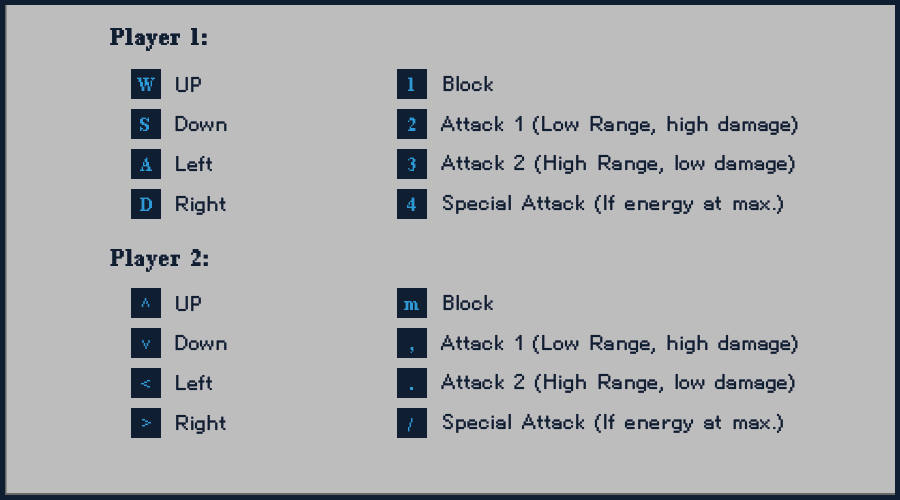
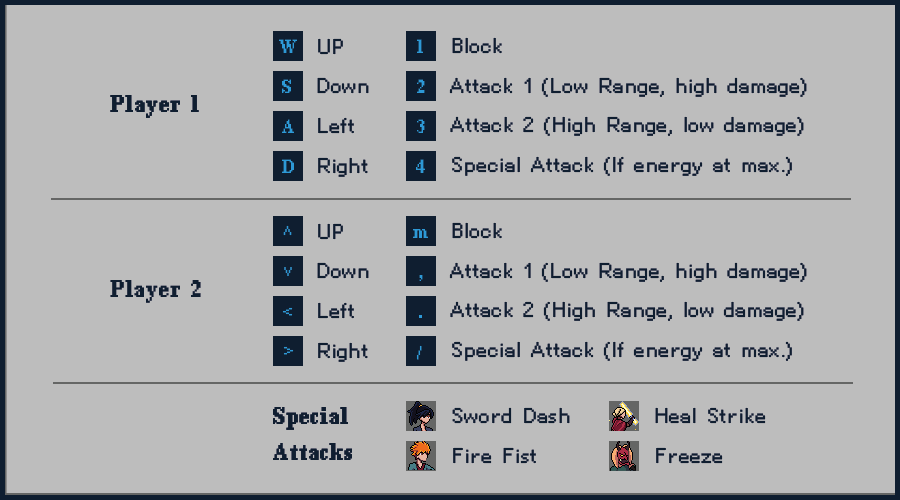
fix: spec. attacks

diff --git a/player.py b/player.py
@@ -34,8 +34,12 @@ class Player():
         self.dash_duration = 200  # duration in miliseconds
         self.dash_start_time = 0 
         self.frozen = False
-        self.frozen_duration = 3000 # duration in miliseconds
+        self.frozen_duration = 3000
         self.freeze_start_time = 0 
+        self.burned = False 
+        self.burn_start_time = 0
+        self.burn_interval = 2000
+        self.burn_ticks = 0 
         
     #======================#
     #==#  Load Sprites  #==#
@@ -70,10 +74,7 @@ class Player():
         self.running = False
         self.attack_type = 0
         
-        # get pressed key
         key = pygame.key.get_pressed()
-        
-        # Controlls
         if self.attacking == False and self.alive == True and round_over == False and self.frozen == False:
             
             # player 1
@@ -121,26 +122,22 @@ class Player():
                     # attack
                     self.handle_attacks(key, surface, target)
                     self.handle_spec_attacks(key, surface, target)
-        
         # Spec Move: Dash
         if self.dashing:
             if pygame.time.get_ticks() - self.dash_start_time < self.dash_duration:
                 dx = self.dash_speed if not self.flip else -self.dash_speed
             else:
                 self.dashing = False
-                self.attack_cooldown = 30
-                
+                self.attack_cooldown = 30    
         # Spec Status: Freeze
         if self.frozen:
             if pygame.time.get_ticks() - self.freeze_start_time < self.frozen_duration:
                 self.frozen = True
             else:
-                self.frozen = False
-                
+                self.frozen = False             
         # apply gravity
         self.vel_y += GRAVITY
         dy += self.vel_y
-            
         # limit screen area
         if self.rect.left + dx < 0: # X axis
             dx = -self.rect.left
@@ -149,15 +146,12 @@ class Player():
         if self.rect.bottom + dy > screen_height - 110: # Y axis
             self.vel_y = 0
             self.jump = False # restart jump delay
-            dy = screen_height - 110 - self.rect.bottom
-             
+            dy = screen_height - 110 - self.rect.bottom  
         # ensure player face each other
         self.flip = target.rect.centerx < self.rect.centerx
-        
         # apply attack cooldown
         if self.attack_cooldown >0:
             self.attack_cooldown -= 1
-        
         # update position
         self.rect.x += dx
         self.rect.y += dy
@@ -183,10 +177,10 @@ class Player():
                 
     def handle_spec_attacks(self, key, surface, target):
         if ( key[pygame.K_4] and self.player == 1 and self.energy == 100) or (key[pygame.K_SLASH] and self.player == 2 and self.energy == 100):
-            if self.fighter_name == "Bam" or self.fighter_name == "Starlight":
+            if self.fighter_name == "Bam":
                 self.attack_type = 3
                 self.dash_attack(surface, target)
-            if self.fighter_name == "Onichan"or self.fighter_name == "Raruto":
+            if self.fighter_name == "Onichan" or self.fighter_name == "Raruto" or self.fighter_name == "Starlight":
                 self.attack_type = 3
                 self.freeze_attack(surface, target)
         
@@ -245,8 +239,7 @@ class Player():
                         self.hit = False
                         self.attacking = False
                         self.attack_cooldown = 30 # hurt cooldown
-            
-            
+               
     #=================#
     #==#  Attacks  #==#
     #=================#
@@ -269,14 +262,10 @@ class Player():
             if attacking_rect.colliderect(target.rect):
                 if target.blocking == False:
                     if self.fighter_name == "Bam":
-                        target.health -= 30  # Dash Damage
-                        target.hit = True
-                    elif self.fighter_name == "Starlight":
-                        target.health -= 20  # Dash Damage
-                        self.health += 15 # Damage Heal
+                        target.health -= 35  # Dash Damage
                         target.hit = True
             # Draw hit area on green for debug
-            pygame.draw.rect(surface, (0, 255, 0), attacking_rect)
+            #pygame.draw.rect(surface, (0, 255, 0), attacking_rect)
     
     def attack(self, surface, target):
         if self.attack_cooldown == 0:
@@ -288,7 +277,7 @@ class Player():
                 damage = 10 
             elif self.attack_type == 2:
                 # Attack Type 2: More Range Low Damage
-                attack_width = self.rect.width * 2
+                attack_width = self.rect.width * 1.9
                 damage = 6
 
             # Creates attack area
@@ -309,14 +298,17 @@ class Player():
                     self.energy += 20
 
             # Draw hit area on green for debug
-            pygame.draw.rect(surface, (0, 255, 0), attacking_rect)
+            #pygame.draw.rect(surface, (0, 255, 0), attacking_rect)
             
             
     def freeze_attack(self, surface, target):
+                
         if self.attack_cooldown == 0:
             self.attacking = True
             attack_width = self.rect.width * 1.5
-            damage = 6
+            damage = 15
+            healDamage = 20
+            healSelf = 15
             self.energy -= 100
 
             # Creates attack area
@@ -330,16 +322,24 @@ class Player():
             # Check if collision happened
             if attacking_rect.colliderect(target.rect):
                 if target.blocking == False:
-                    target.frozen = True
-                    target.freeze_start_time = pygame.time.get_ticks()
-                    target.health -= damage
-                    target.hit = True
-
-
+                    if self.fighter_name == "Onichan": # freeze attack
+                        target.frozen = True
+                        target.freeze_start_time = pygame.time.get_ticks()
+                        target.health -= damage
+                        target.hit = True
+                    elif self.fighter_name == "Starlight": # Heal strike
+                        target.health -= healDamage
+                        self.health += healSelf
+                        target.hit = True
+                    elif self.fighter_name == "Raruto": # Burn attack
+                        target.burned = True
+                        target.burn_start_time = pygame.time.get_ticks()
+                        target.burn_ticks = 0
+                        target.hit = True
+                        
             # Draw hit area on green for debug
-            pygame.draw.rect(surface, (0, 255, 0), attacking_rect)
-            
-            
+            #pygame.draw.rect(surface, (0, 255, 0), attacking_rect)        
+                    
     #================#
     #==#  Update  #==#
     #================#

diff --git a/main.py b/main.py
@@ -67,8 +67,8 @@ fighters = [
     {"name": "Raruto", "size": 128, "scale": 1.6, "offset": [34, 15], "freeze_offset": [-55,-23], "animation_steps":[6, 8, 8, 10, 3, 4, 4, 2, 3, 4]},
     {"name": "Starlight", "size": 128, "scale": 2.1, "offset": [45, 41], "freeze_offset": [-95,-87], "animation_steps":[7, 7, 8, 8, 4, 10, 10, 7, 3, 6]},
     {"name": "Onichan", "size": 128, "scale": 2, "offset": [44, 38], "freeze_offset": [-88,-75], "animation_steps":[5, 6, 7, 8, 4, 4, 4, 4, 3, 6]},
-    {"name": "Bam", "size": 128, "scale": 1.8, "offset": [40, 27], "freeze_offset": [-73,-50], "animation_steps":[6, 8, 8, 12, 6, 4, 3, 2, 2, 4]}]
-
+    {"name": "Bam", "size": 128, "scale": 1.8, "offset": [40, 27], "freeze_offset": [-73,-50], "animation_steps":[6, 8, 8, 12, 6, 4, 3, 2, 2, 4]}
+]
 # Show Fighter List
 def draw_character_selection(selected1,selected2):
 
@@ -511,22 +511,56 @@ while run:
             fight_displayed = False
             fighter_1 = Player(1, 200, 310, False, fighter_1_data, player_1_sheet, fighter_1_data['animation_steps'])
             fighter_2 = Player(2, 700, 310, True, fighter_2_data, player_2_sheet, fighter_2_data['animation_steps'])
+    
+    # Manage burn damage
+    if fighter_1.burned or fighter_2.burned:
+        if fighter_1.burned: # P1
+            current_time = pygame.time.get_ticks()
+            # time hits
+            if current_time - fighter_1.burn_start_time >= (fighter_1.burn_interval * (fighter_1.burn_ticks + 1)):
+                fighter_1.health -= 10  # Aplicar daño por quemadura
+                fighter_1.burn_ticks += 1
+                # Finish burn after 3 hits
+                if fighter_1.burn_ticks >= 3:
+                    fighter_1.burned = False             
+        if fighter_2.burned: # P2
+            current_time = pygame.time.get_ticks()
+            # time hits
+            if current_time - fighter_2.burn_start_time >= (fighter_2.burn_interval * (fighter_2.burn_ticks + 1)):
+                fighter_2.health -= 10  # Aplicar daño por quemadura
+                fighter_2.burn_ticks += 1
+                # Finish burn after 3 hits
+                if fighter_2.burn_ticks >= 3:
+                    fighter_2.burned = False 
      
-    # Manage frozen status        
-    if fighter_1.frozen or fighter_2.frozen:
+    # Manage frozen/burned status color effect
+    if fighter_1.frozen or fighter_2.frozen or fighter_1.burned or fighter_2.burned:
         if fighter_1.frozen:
             frozenChar = fighter_1
             frozenOffset = fighter_1_data['freeze_offset']
+            colorEffect = 0
         elif fighter_2.frozen:
             frozenChar = fighter_2
             frozenOffset = fighter_2_data['freeze_offset']
-        # Create Blue mask 
+            colorEffect = 0
+        elif fighter_1.burned:
+            frozenChar = fighter_1
+            frozenOffset = fighter_1_data['freeze_offset']
+            colorEffect = 1
+        elif fighter_2.burned:
+            frozenChar = fighter_2
+            frozenOffset = fighter_2_data['freeze_offset']
+            colorEffect = 1
+        # Create Blue/Red mask 
         enemy_mask = pygame.mask.from_surface(frozenChar.image)
         blue_effect = pygame.Surface(frozenChar.image.get_size(), pygame.SRCALPHA)
         for x in range(blue_effect.get_width()):
             for y in range(blue_effect.get_height()):
                 if enemy_mask.get_at((x, y)):  # mask if pixel
-                    blue_effect.set_at((x, y), (15,158,234, 100))  # add transparent blue
+                    if colorEffect == 0:
+                        blue_effect.set_at((x, y), (15,158,234, 50))  # add transparent blue
+                    if colorEffect == 1:
+                        blue_effect.set_at((x, y), (255,0,0, 50))  # add transparent red
         # flip if char flips
         if frozenChar.flip:
             flipped_blue_effect = pygame.transform.flip(blue_effect, True, False)

diff --git a/README.md b/README.md
@@ -9,10 +9,7 @@
 </br>
 
 ## 📝 Description  
-**Pixel Fight** is a simple two-player fighting game inspired by retro pixel art aesthetics. The game is built using **Python** and **Pygame**, focusing on quick fights, player vs. player mechanics, and a nostalgic vibe. This is a personal, made with the porpuse of having fun and understand videogames logic.  
-This is a work in progress, and features will be added incrementally.
-
-</br>
+**Pixel Fight** is a simple two-player fighting game inspired by retro pixel art aesthetics. The game is built using **Python** and **Pygame**, focusing on quick fights, player vs. player mechanics, and a nostalgic vibe. This is a personal project, made with the porpuse of having fun and understand videogames logic.
 
 ## ⚡ Features
 - **2D movement**  
@@ -22,14 +19,9 @@ This is a work in progress, and features will be added incrementally.
 - **Character selection** 
 - **Sound Effects** 
 
-</br>
-
 ## 🛠 Tech Used  
 - Python 3.13.0  
 - Pygame library
-
-
-</br>
 
 ## 🚀 Getting Started
 
